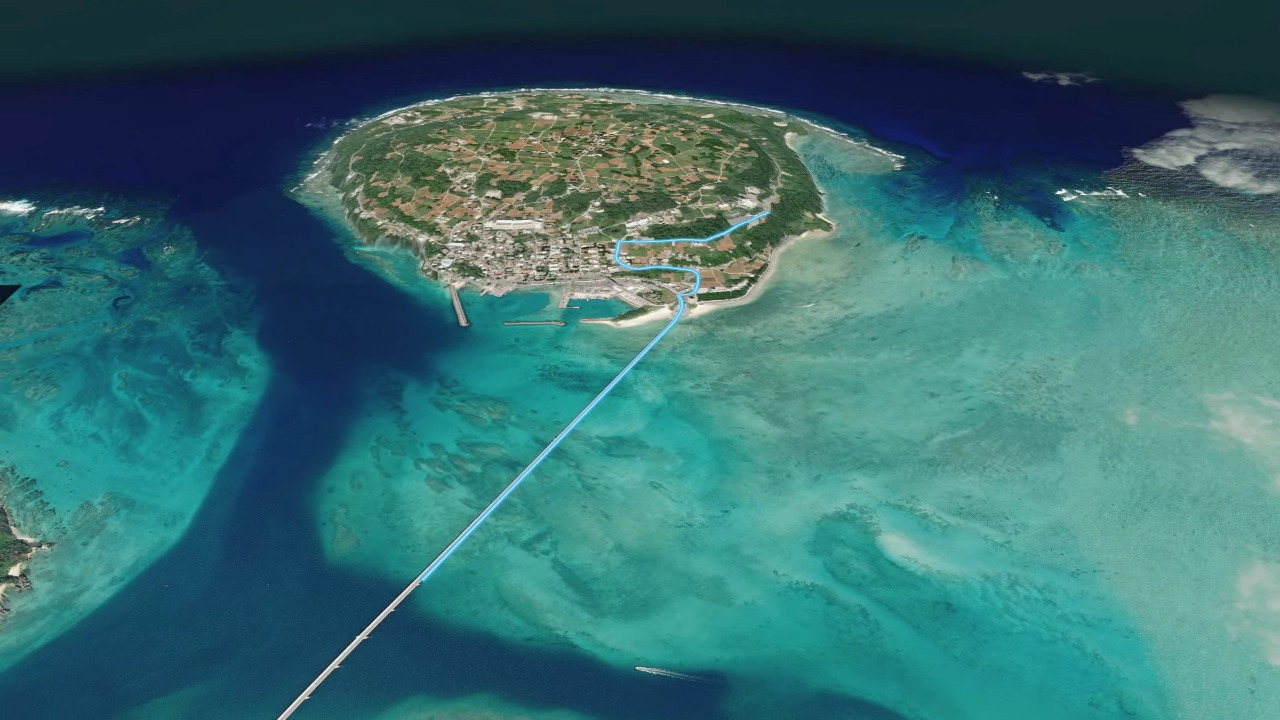
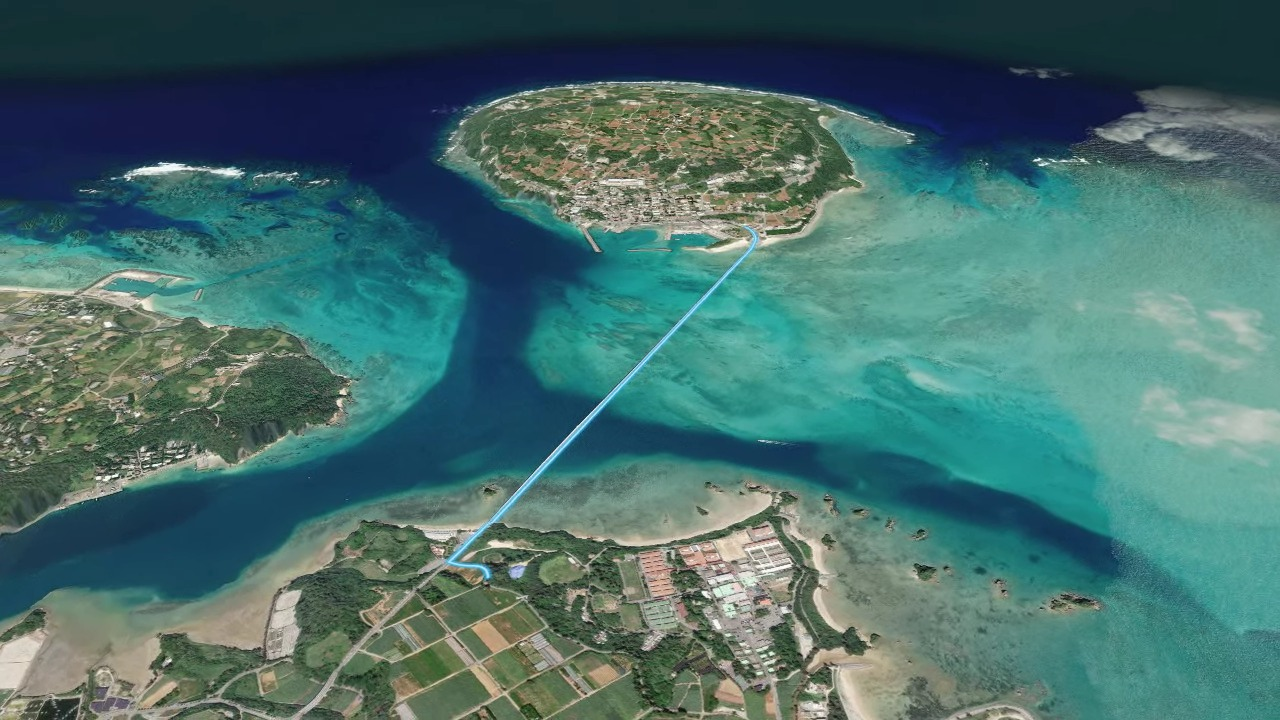
古宇利大橋のルートを橋全体を含む正しい範囲に修正
起点座標が実際の橋の南端(bbox基準)より約700m北にずれており、
橋の一部が空撮に含まれていなかった。OpenStreetMapの橋のbounding box
に合わせて座標を修正(2.5km→2.4km)。距離・標高・スポット座標を更新し、
空撮映像も撮り直し。

diff --git a/data/paths.ts b/data/paths.ts
@@ -71349,8 +71349,72 @@ export const routePaths: Record<string, [number, number][]> = {
  ],
  "kouri-bridge": [
   [
-   128.01612,
-   26.6845
+   128.01329,
+   26.677
+  ],
+  [
+   128.01329,
+   26.67704
+  ],
+  [
+   128.01322,
+   26.67724
+  ],
+  [
+   128.01316,
+   26.67732
+  ],
+  [
+   128.01306,
+   26.67739
+  ],
+  [
+   128.01289,
+   26.67744
+  ],
+  [
+   128.01277,
+   26.67746
+  ],
+  [
+   128.0127,
+   26.67748
+  ],
+  [
+   128.01263,
+   26.6775
+  ],
+  [
+   128.01254,
+   26.67752
+  ],
+  [
+   128.01248,
+   26.67755
+  ],
+  [
+   128.01239,
+   26.67758
+  ],
+  [
+   128.01231,
+   26.67762
+  ],
+  [
+   128.01227,
+   26.67763
+  ],
+  [
+   128.01256,
+   26.67813
+  ],
+  [
+   128.01274,
+   26.67846
+  ],
+  [
+   128.01289,
+   26.67873
   ],
   [
    128.01923,
@@ -71429,232 +71493,20 @@ export const routePaths: Record<string, [number, number][]> = {
    26.69556
   ],
   [
-   128.02193,
-   26.69561
-  ],
-  [
-   128.02205,
-   26.69565
-  ],
-  [
-   128.02214,
+   128.02168,
    26.69571
   ],
   [
-   128.02221,
-   26.69579
+   128.02162,
+   26.69583
   ],
   [
-   128.02227,
-   26.69593
+   128.02155,
+   26.69595
   ],
   [
-   128.02231,
-   26.69608
-  ],
-  [
-   128.02237,
-   26.6964
-  ],
-  [
-   128.02239,
-   26.69674
-  ],
-  [
-   128.02238,
-   26.69682
-  ],
-  [
-   128.02236,
-   26.69688
-  ],
-  [
-   128.02232,
-   26.69693
-  ],
-  [
-   128.02224,
-   26.69699
-  ],
-  [
-   128.02218,
-   26.69701
-  ],
-  [
-   128.02207,
-   26.69703
-  ],
-  [
-   128.02188,
-   26.69704
-  ],
-  [
-   128.02146,
-   26.69706
-  ],
-  [
-   128.0213,
-   26.69705
-  ],
-  [
-   128.02115,
-   26.69704
-  ],
-  [
-   128.02092,
-   26.69699
-  ],
-  [
-   128.0207,
-   26.69694
-  ],
-  [
-   128.02056,
-   26.69692
-  ],
-  [
-   128.02044,
-   26.69693
-  ],
-  [
-   128.02033,
-   26.69695
-  ],
-  [
-   128.02023,
-   26.697
-  ],
-  [
-   128.02016,
-   26.69704
-  ],
-  [
-   128.02008,
-   26.6971
-  ],
-  [
-   128.02,
-   26.69717
-  ],
-  [
-   128.01994,
-   26.69725
-  ],
-  [
-   128.01989,
-   26.69734
-  ],
-  [
-   128.01986,
-   26.69744
-  ],
-  [
-   128.01985,
-   26.69755
-  ],
-  [
-   128.01992,
-   26.69824
-  ],
-  [
-   128.01993,
-   26.69827
-  ],
-  [
-   128.01994,
-   26.69829
-  ],
-  [
-   128.01997,
-   26.69831
-  ],
-  [
-   128.0204,
-   26.69831
-  ],
-  [
-   128.02086,
-   26.69831
-  ],
-  [
-   128.02115,
-   26.69831
-  ],
-  [
-   128.02131,
-   26.69834
-  ],
-  [
-   128.02173,
-   26.69839
-  ],
-  [
-   128.02195,
-   26.69841
-  ],
-  [
-   128.0222,
-   26.69842
-  ],
-  [
-   128.02245,
-   26.69842
-  ],
-  [
-   128.02255,
-   26.69841
-  ],
-  [
-   128.02266,
-   26.69844
-  ],
-  [
-   128.02273,
-   26.69845
-  ],
-  [
-   128.02278,
-   26.69848
-  ],
-  [
-   128.02291,
-   26.69857
-  ],
-  [
-   128.02316,
-   26.69873
-  ],
-  [
-   128.0234,
-   26.6989
-  ],
-  [
-   128.02367,
-   26.69913
-  ],
-  [
-   128.02389,
-   26.6993
-  ],
-  [
-   128.02451,
-   26.69967
-  ],
-  [
-   128.02479,
-   26.69984
-  ],
-  [
-   128.02486,
-   26.69991
-  ],
-  [
-   128.02494,
-   26.69999
-  ],
-  [
-   128.02495,
-   26.70002
+   128.0215,
+   26.696
   ]
  ]
 };

diff --git a/data/courses-extra5.ts b/data/courses-extra5.ts
@@ -607,10 +607,10 @@ export const coursesExtra5: Course[] = [
     catchcopy: "エメラルドグリーンの海を渡る、離島の橋。",
     summary:
       "沖縄本島と古宇利島を結ぶ、県道247号古宇利屋我地線の橋。透明度の高いエメラルドグリーンの海の上を一直線に走る、沖縄離島ドライブの人気スポット。橋を渡った先の古宇利島には美しいビーチが広がる。",
-    distanceKm: 2.5,
+    distanceKm: 2.4,
     durationMin: 10,
-    elevationGainM: 53,
-    maxElevationM: 53,
+    elevationGainM: 16,
+    maxElevationM: 16,
     windingLevel: 1,
     difficulty: "初心者向け",
     roadTypes: ["橋・海上"],
@@ -619,32 +619,32 @@ export const coursesExtra5: Course[] = [
     bestMonths: [1, 2, 3, 4, 5, 6, 7, 8, 9, 10, 11, 12],
     narrowRoadWarning: false,
     suitableFor: ["軽", "ミニバン", "スポーツ", "EV", "オープン"],
-    center: { lat: 26.693, lng: 128.02 },
+    center: { lat: 26.6865, lng: 128.0173 },
     path: routePaths["kouri-bridge"],
     spots: [
       {
         name: "屋我地島側入口",
         type: "展望",
-        lat: 26.6845,
-        lng: 128.01612,
+        lat: 26.677,
+        lng: 128.01329,
         note: "橋の屋我地島側、渡る前の展望地",
       },
       {
         name: "橋の中間",
         type: "撮影",
-        lat: 26.69699,
-        lng: 128.02092,
+        lat: 26.69395,
+        lng: 128.02142,
         note: "エメラルドグリーンの海を一望する橋の中間地点",
       },
       {
         name: "古宇利島側",
         type: "展望",
-        lat: 26.70002,
-        lng: 128.02495,
+        lat: 26.696,
+        lng: 128.0215,
         note: "橋を渡りきった古宇利島側。ビーチにも近い",
       },
     ],
-    elevationProfile: [0, 4, 5, 9, 13, 18, 33, 40, 53],
+    elevationProfile: [16, 12, 15, 7, 0, 2, 5, 6, 6],
     heroImage: "/images/courses/kouri-bridge/hero.jpg",
     gallery: [],
     body: [
